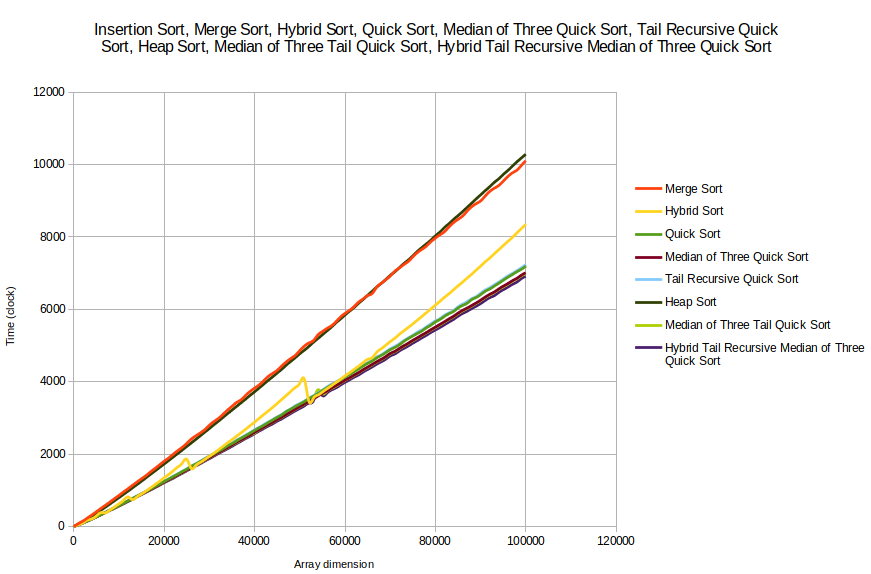
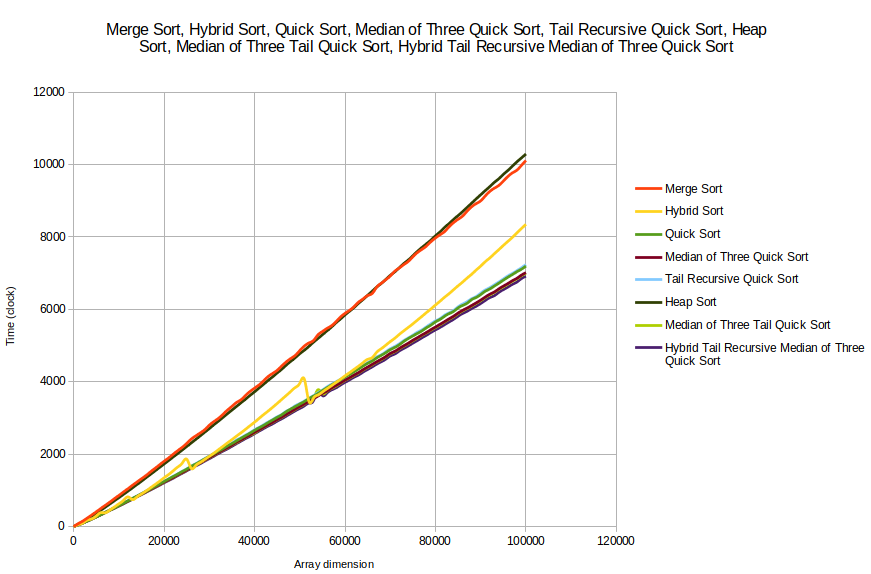
updated graph

Changed region(s): [[0.093, 0.0296, 0.899, 0.0889]]

diff --git a/README.md b/README.md
@@ -133,6 +133,6 @@ Tail Recursive Quick Sort, Median of Three Tail Quick Sort, Hybrid Tail Recursiv
 
 ### Final experiment
 
-Insertion Sort, Merge Sort, Hybrid Sort, Quick Sort, Median of Three Quick Sort, Tail Recursive Quick Sort, Heap Sort, Median of Three Tail Quick Sort, Hybrid Tail Recursive Median of Three Quick Sort
+(Insertion Sort), Merge Sort, Hybrid Sort, Quick Sort, Median of Three Quick Sort, Tail Recursive Quick Sort, Heap Sort, Median of Three Tail Quick Sort, Hybrid Tail Recursive Median of Three Quick Sort
 
 ![Insertion Sort, Merge Sort, Hybrid Sort, Quick Sort, Median of Three Quick Sort, Tail Recursive Quick Sort, Heap Sort, Median of Three Tail Quick Sort, Hybrid Tail Recursive Median of Three Quick Sort](https://github.com/andrea-berardi/sorting-algorithms/blob/main/results/total/total.png?raw=true)
